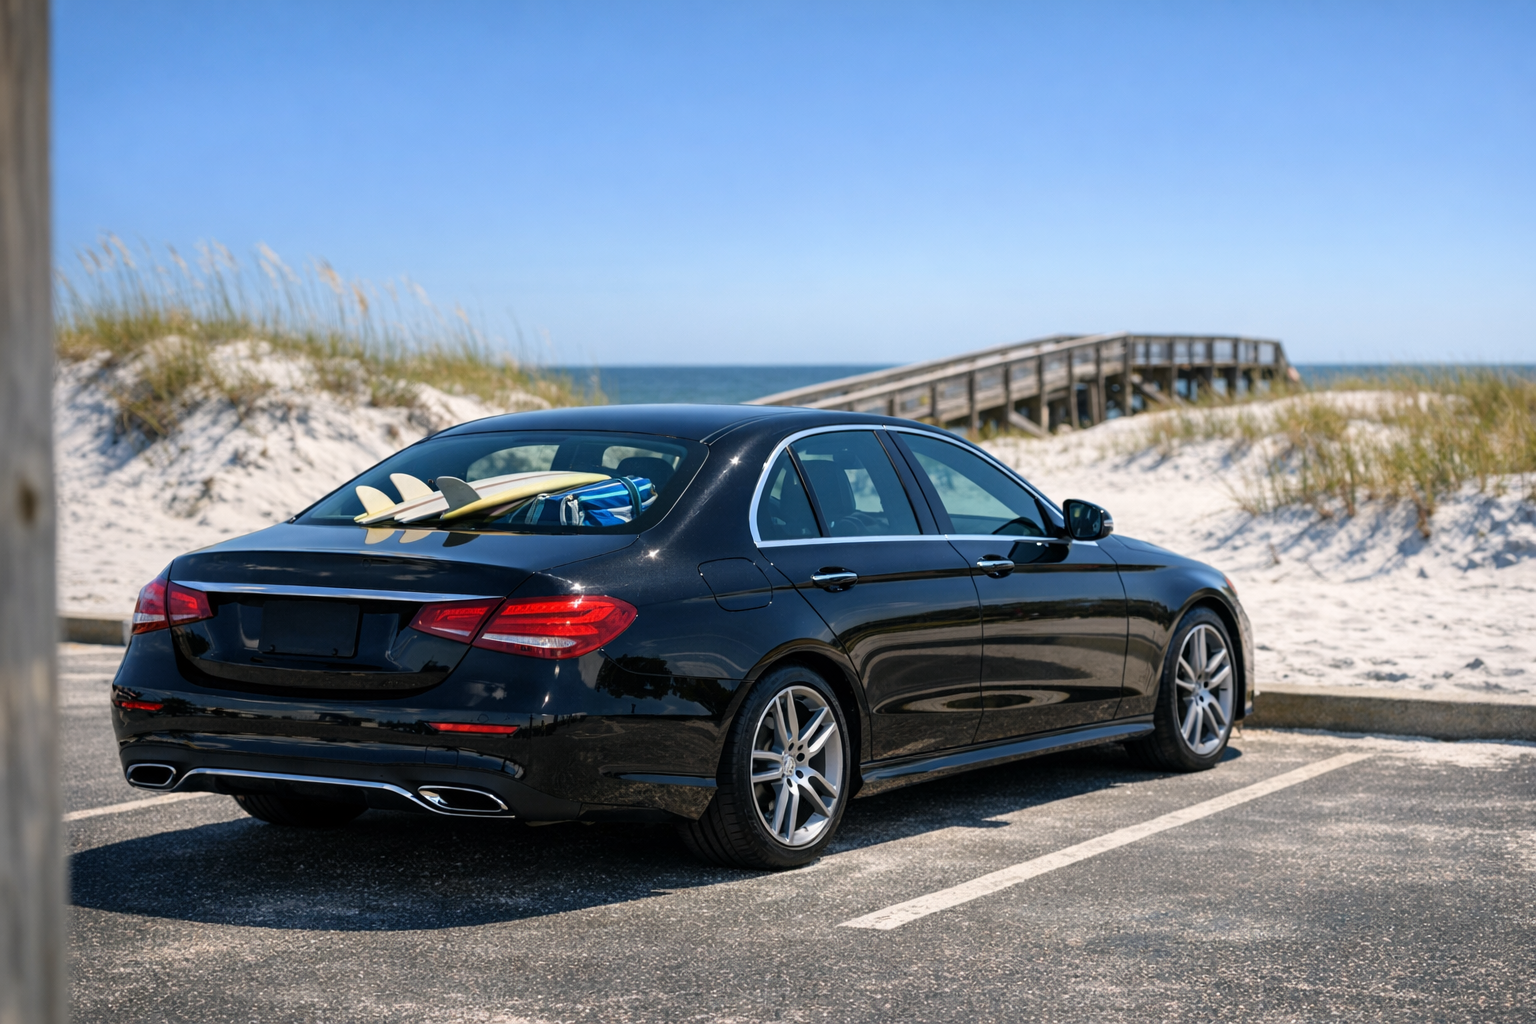
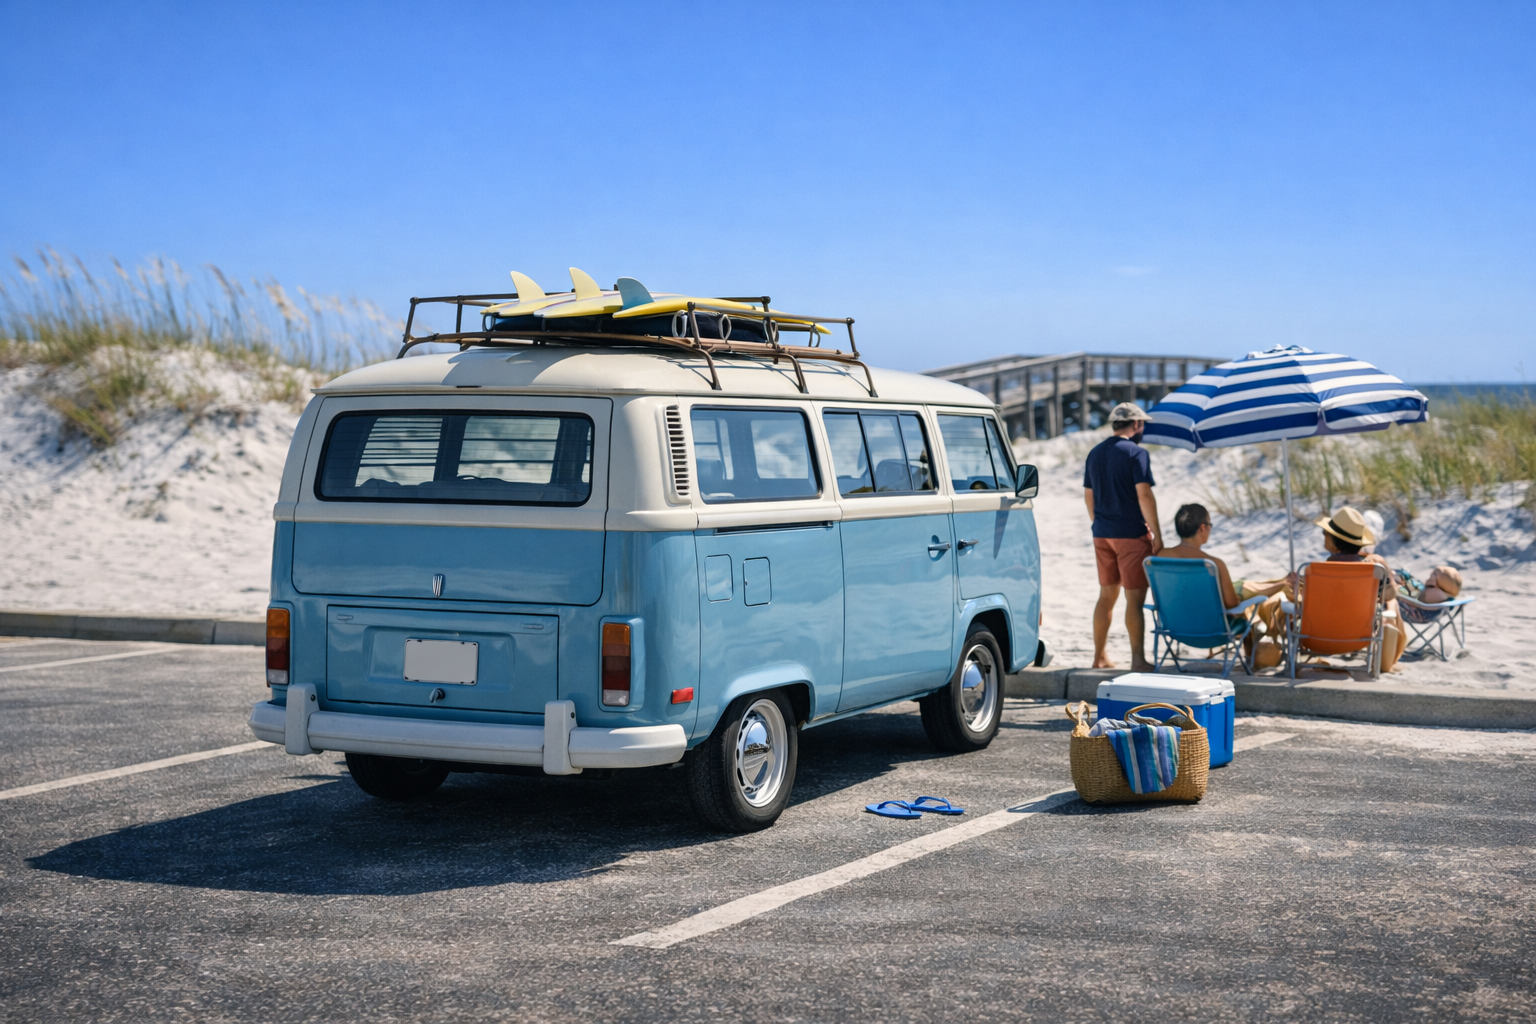
fix: sidebar 360px, sticky restored, newsletter stacked, placeholder, new body-4 image
- sidebar grid 280px → 360px (fits 300×250 and 300×600 banners)
- removed overflow-x-hidden from main (was breaking position:sticky)
- min-w-0 on article column prevents prose overflow without touching sticky
- NewsletterForm: flex-col so input+button stack vertically in sidebar
- placeholder "you@email.com" → "your@email.com"
- gulf-shores body-4: replaced black Mercedes with VW Bus beach scene

diff --git a/src/app/[slug]/page.tsx b/src/app/[slug]/page.tsx
@@ -140,7 +140,7 @@ export default async function BlogPost({ params }: Props) {
           dangerouslySetInnerHTML={{ __html: JSON.stringify(faqSchema) }}
         />
       )}
-      <main className="w-full px-6 py-6 overflow-x-hidden">
+      <main className="w-full px-6 py-6">
         {/* Breadcrumb */}
         <nav className="text-sm text-gray-500 mb-4">
           <Link href="/" className="hover:text-orange-600 transition-colors">Home</Link>
@@ -180,8 +180,8 @@ export default async function BlogPost({ params }: Props) {
         </div>
 
         {/* Content + Sidebar grid */}
-        <div className="grid grid-cols-1 lg:grid-cols-[1fr_280px] gap-8">
-          <div>
+        <div className="grid grid-cols-1 lg:grid-cols-[1fr_360px] gap-8">
+          <div className="min-w-0">
             {/* Content with interleaved contextual CTAs */}
             <article
               className="prose prose-lg prose-orange max-w-none

diff --git a/src/components/NewsletterForm.tsx b/src/components/NewsletterForm.tsx
@@ -46,7 +46,7 @@ export default function NewsletterForm({ source }: { source: string }) {
           required
           value={email}
           onChange={(e) => setEmail(e.target.value)}
-          placeholder="you@email.com"
+          placeholder="your@email.com"
           disabled={status === "loading"}
           className="w-full px-4 py-3 rounded-lg text-gray-700 placeholder-gray-400 focus:outline-none focus:ring-2 focus:ring-teal-400 disabled:opacity-60"
         />
